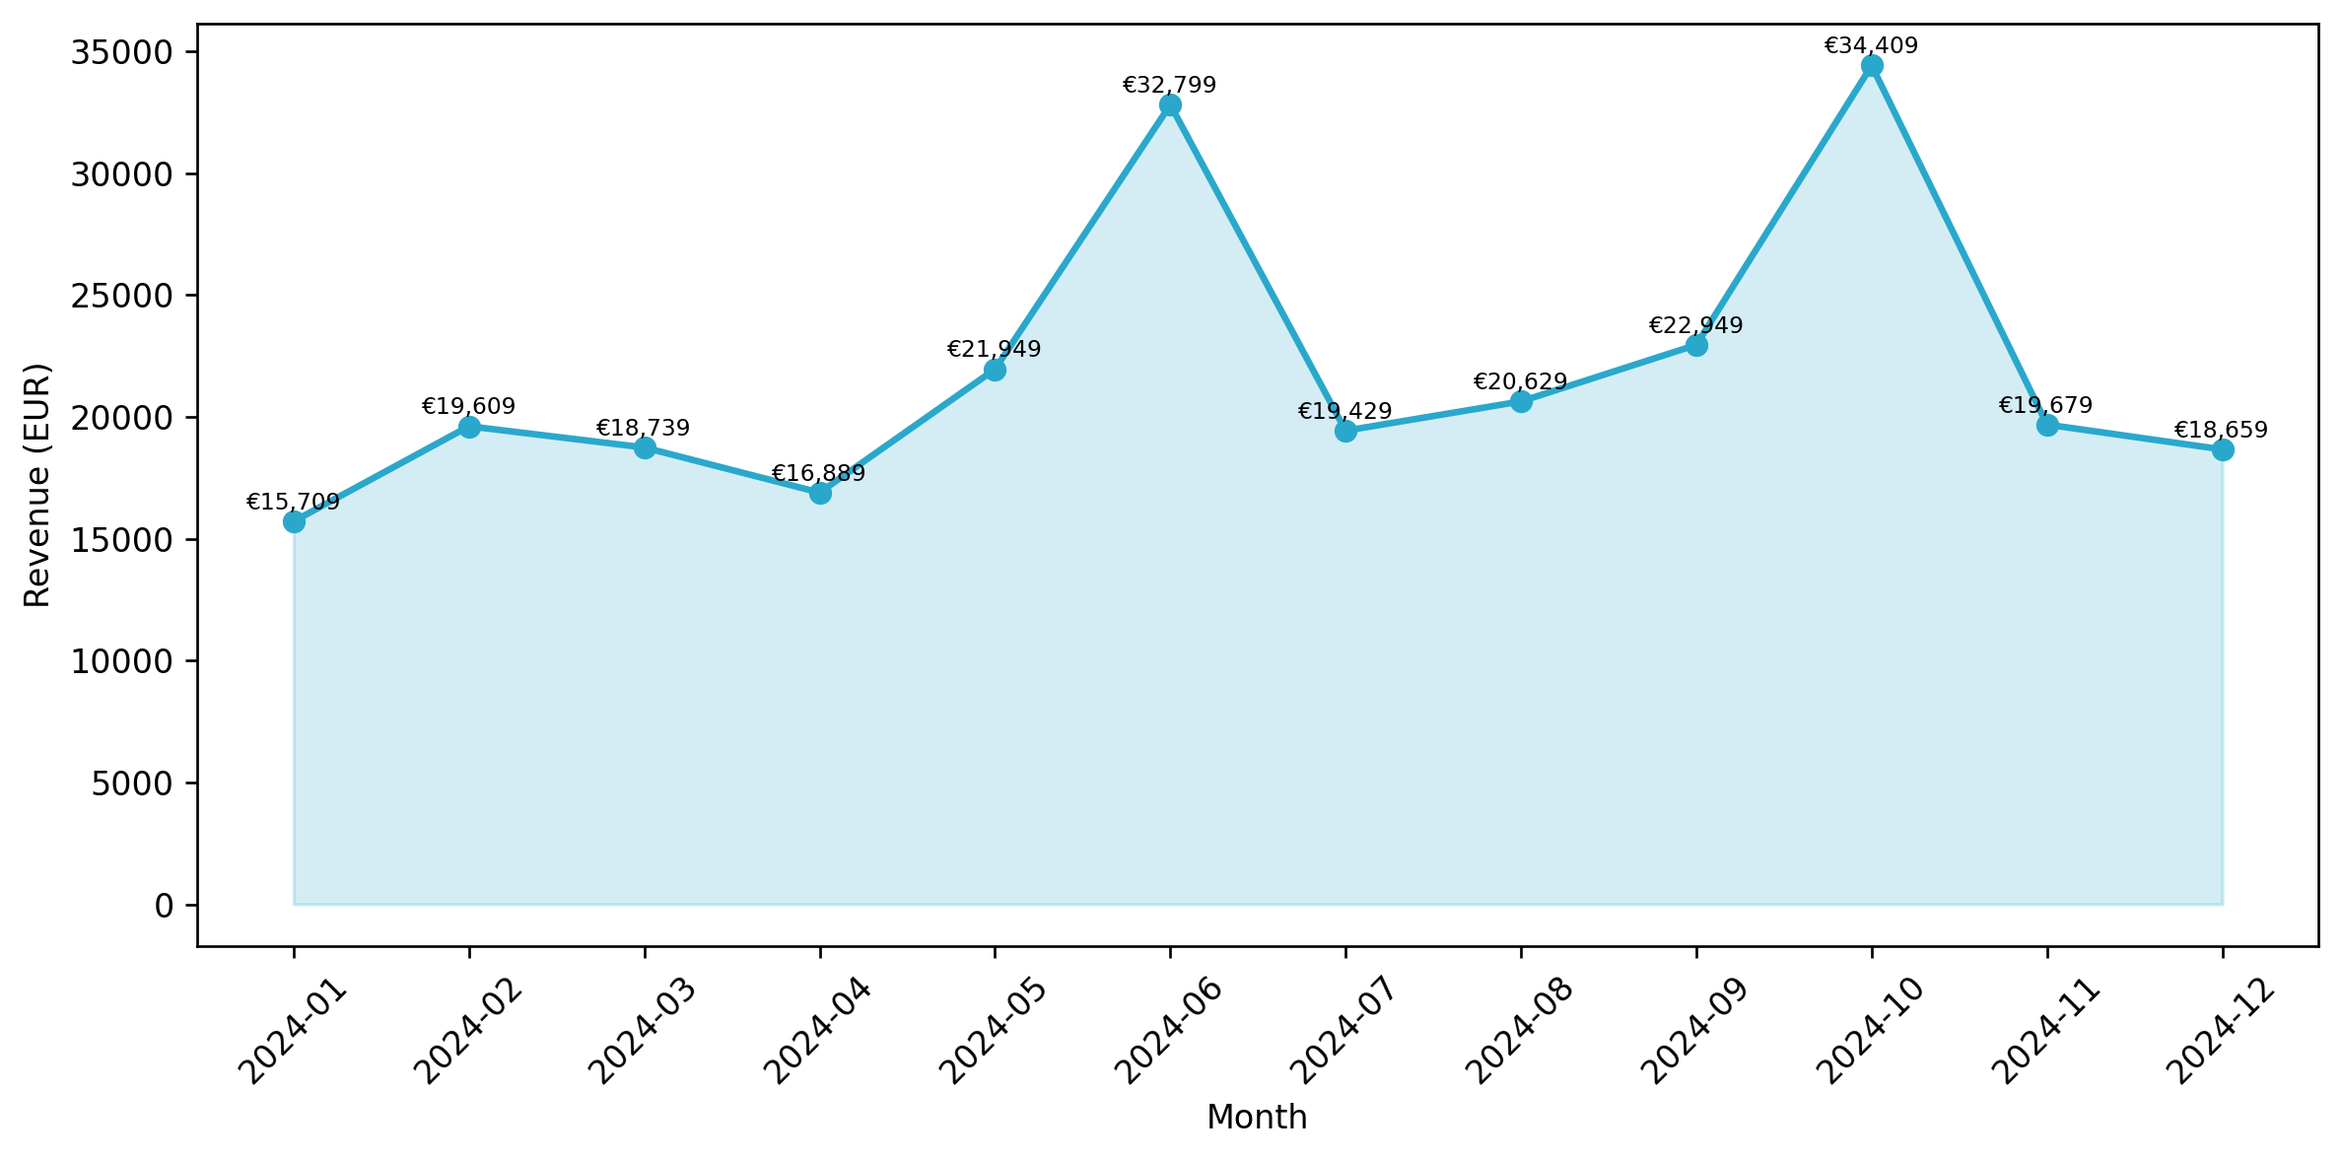
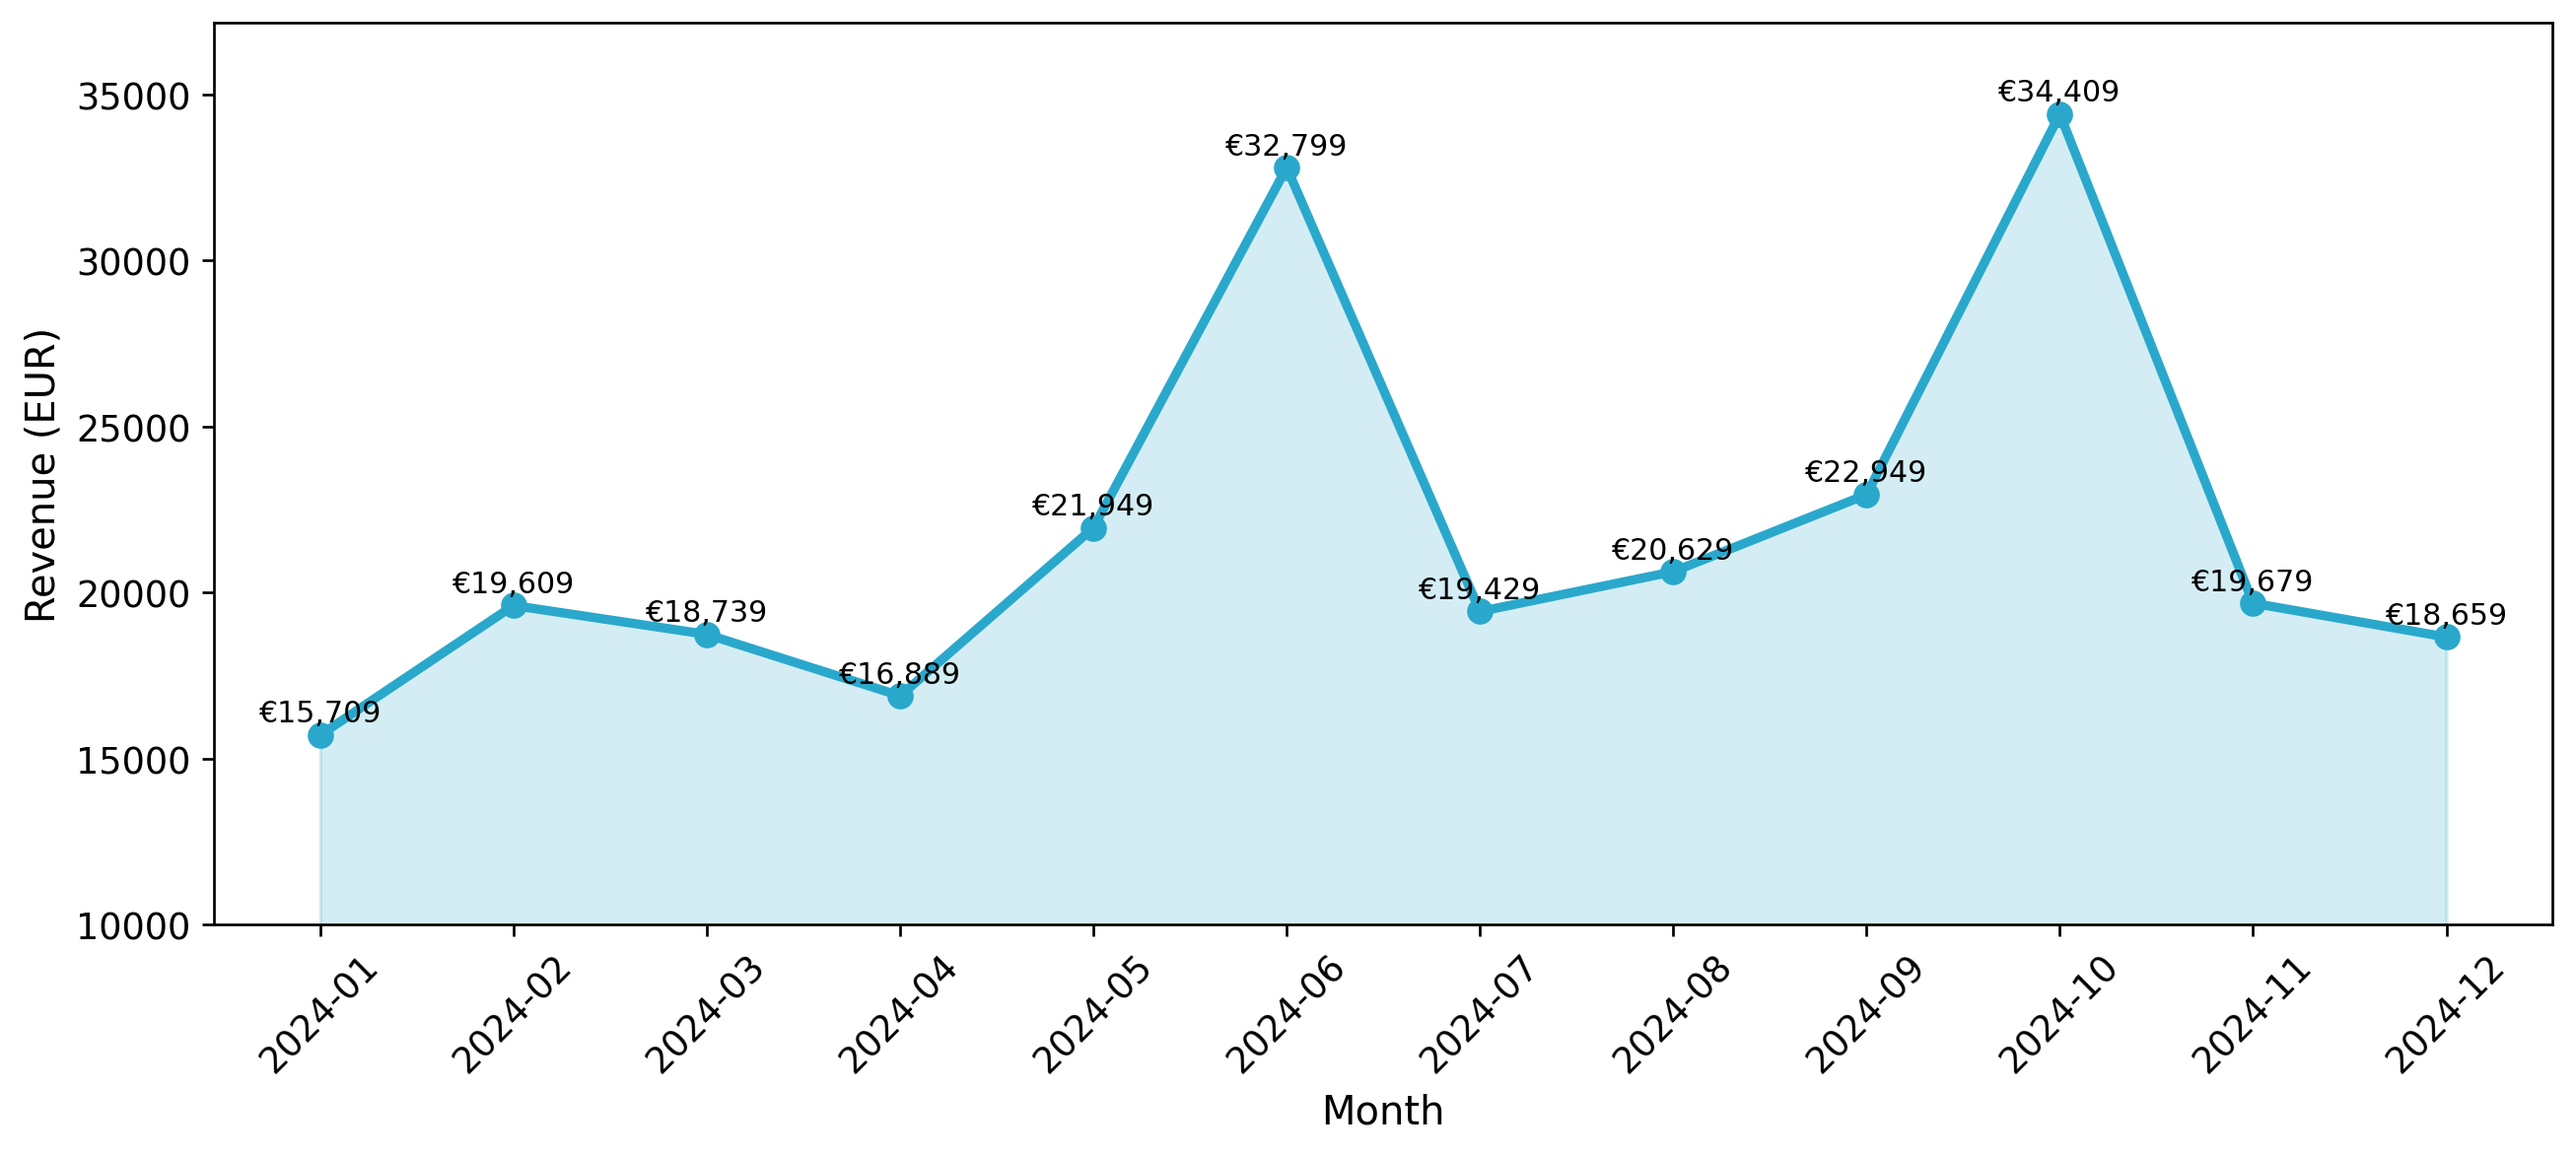
- obrazky uz v predchadzajucom push zmenene DPI 150->240 - sekcie 7 + 14 vylepseny dashboard layout - niektore grafy: priority polish layer

diff --git a/main.py b/main.py
@@ -61,17 +61,23 @@ print("✓ 01_duplicates.png")
 
 # === 2. REVENUE BY COUNTRY ===
 rev_country = df.groupby("country_name")["revenue"].sum().sort_values(ascending=True)
-fig, ax = plt.subplots(figsize=(9, 5))
+fig, ax = plt.subplots(figsize=(11, 5.5))
 bars = ax.barh(rev_country.index, rev_country.to_numpy(), color="#2aa8cc")
 # # ax.set_title("Revenue by Country", fontsize=16, fontweight="bold")
-ax.set_xlabel("Total Revenue (EUR)")
+ax.set_xlabel("Total Revenue (EUR)", fontsize=12)
+ax.set_xlim(0, rev_country.max() * 1.15)
+ax.tick_params(axis="both", labelsize=11)
+ax.grid(axis="x", alpha=0.18)
+ax.spines["top"].set_visible(False)
+ax.spines["right"].set_visible(False)
 for bar, val in zip(bars, rev_country.to_numpy()):
     ax.text(
         val + 500,
         bar.get_y() + bar.get_height() / 2,
         f"€{val:,.0f}",
         va="center",
-        fontsize=9,
+        fontsize=11,
+        fontweight="bold",
     )
 plt.tight_layout()
 plt.savefig("cleaned_data/02_revenue_by_country.png", dpi=240, bbox_inches="tight")
@@ -172,28 +178,28 @@ print("✓ 06_return_rate_by_product.png")
 
 # === 7. MONTHLY TREND ===
 monthly = df.groupby("month")["revenue"].sum()
-fig, ax = plt.subplots(figsize=(10, 5))
+fig, ax = plt.subplots(figsize=(11, 5))
 ax.plot(
     monthly.index.astype(str),
     monthly.to_numpy(),
     marker="o",
     color="#2aa8cc",
-    linewidth=2,
-    markersize=6,
+    linewidth=2.8,
+    markersize=7,
 )
 ax.fill_between(
     monthly.index.astype(str), monthly.to_numpy(), alpha=0.2, color="#2aa8cc"
 )
-# ax.set_title("Monthly Revenue Trend 2024", fontsize=16, fontweight="bold")
-ax.set_ylabel("Revenue (EUR)")
-ax.set_xlabel("Month")
+ax.set_ylabel("Revenue (EUR)", fontsize=12)
+ax.set_xlabel("Month", fontsize=12)
+ax.tick_params(axis="both", labelsize=11)
+ax.set_ylim(10000, monthly.max() * 1.08)
 plt.xticks(rotation=45)
 for i, val in enumerate(monthly.to_numpy()):
-    ax.text(i, val + 500, f"€{val:,.0f}", ha="center", fontsize=7)
+    ax.text(i, val + 400, f"€{val:,.0f}", ha="center", fontsize=9)
 plt.tight_layout()
 plt.savefig("cleaned_data/07_monthly_trend.png", dpi=240, bbox_inches="tight")
 plt.close()
-print("✓ 07_monthly_trend.png")
 
 # === 8. REVENUE BY MARKETPLACE ===
 rev_market = df.groupby("marketplace")["revenue"].sum().sort_values(ascending=False)
@@ -214,17 +220,23 @@ print("✓ 08_revenue_by_marketplace.png")
 
 # === 9. REVENUE BY CATEGORY ===
 rev_cat = df.groupby("category")["revenue"].sum().sort_values(ascending=True)
-fig, ax = plt.subplots(figsize=(9, 5))
+fig, ax = plt.subplots(figsize=(13, 6))
 bars = ax.barh(rev_cat.index, rev_cat.to_numpy(), color="#1b4332")
 # ax.set_title("Revenue by Category", fontsize=16, fontweight="bold")
-ax.set_xlabel("Total Revenue (EUR)")
+ax.set_xlabel("Total Revenue (EUR)", fontsize=13)
+ax.set_xlim(0, rev_cat.max() * 1.15)
+ax.tick_params(axis="both", labelsize=12)
+ax.grid(axis="x", alpha=0.18)
+ax.spines["top"].set_visible(False)
+ax.spines["right"].set_visible(False)
 for bar, val in zip(bars, rev_cat.to_numpy()):
     ax.text(
         val + 200,
         bar.get_y() + bar.get_height() / 2,
         f"€{val:,.0f}",
         va="center",
-        fontsize=9,
+        fontsize=13,
+        fontweight="bold",
     )
 plt.tight_layout()
 plt.savefig("cleaned_data/09_revenue_by_category.png", dpi=240, bbox_inches="tight")
@@ -233,17 +245,23 @@ print("✓ 09_revenue_by_category.png")
 
 # === 10. MARGIN BY CATEGORY ===
 margin_cat = df.groupby("category")["margin_pct"].mean().sort_values(ascending=True)
-fig, ax = plt.subplots(figsize=(9, 5))
+fig, ax = plt.subplots(figsize=(11, 5.5))
 bars = ax.barh(margin_cat.index, margin_cat.to_numpy(), color="#145d72")
 # ax.set_title("Average Margin by Category (%)", fontsize=16, fontweight="bold")
-ax.set_xlabel("Average Margin (%)")
+ax.set_xlabel("Average Margin (%)", fontsize=12)
+ax.set_xlim(0, margin_cat.max() * 1.15)
+ax.tick_params(axis="both", labelsize=11)
+ax.grid(axis="x", alpha=0.18)
+ax.spines["top"].set_visible(False)
+ax.spines["right"].set_visible(False)
 for bar, val in zip(bars, margin_cat.to_numpy()):
     ax.text(
         val + 0.2,
         bar.get_y() + bar.get_height() / 2,
         f"{val:.1f}%",
         va="center",
-        fontsize=9,
+        fontsize=11,
+        fontweight="bold",
     )
 plt.tight_layout()
 plt.savefig("cleaned_data/10_margin_by_category.png", dpi=240, bbox_inches="tight")
@@ -252,17 +270,23 @@ print("✓ 10_margin_by_category.png")
 
 # === 11. PROFIT BY COUNTRY ===
 profit_country = df.groupby("country_name")["profit"].sum().sort_values(ascending=True)
-fig, ax = plt.subplots(figsize=(9, 5))
+fig, ax = plt.subplots(figsize=(11, 5.5))
 bars = ax.barh(profit_country.index, profit_country.to_numpy(), color="#0d3b47")
 # ax.set_title("Profit by Country", fontsize=16, fontweight="bold")
-ax.set_xlabel("Total Profit (EUR)")
+ax.set_xlabel("Total Profit (EUR)", fontsize=12)
+ax.set_xlim(0, profit_country.max() * 1.15)
+ax.tick_params(axis="both", labelsize=11)
+ax.grid(axis="x", alpha=0.18)
+ax.spines["top"].set_visible(False)
+ax.spines["right"].set_visible(False)
 for bar, val in zip(bars, profit_country.to_numpy()):
     ax.text(
         val + 100,
         bar.get_y() + bar.get_height() / 2,
         f"€{val:,.0f}",
         va="center",
-        fontsize=9,
+        fontsize=11,
+        fontweight="bold",
     )
 plt.tight_layout()
 plt.savefig("cleaned_data/11_profit_by_country.png", dpi=240, bbox_inches="tight")
@@ -309,14 +333,14 @@ print("✓ 13_orders_by_country.png")
 
 # === 14. MONTHLY ORDERS TREND ===
 monthly_orders = df.groupby("month")["order_id"].count()
-fig, ax = plt.subplots(figsize=(10, 5))
+fig, ax = plt.subplots(figsize=(11, 5))
 ax.plot(
     monthly_orders.index.astype(str),
     monthly_orders.to_numpy(),
     marker="o",
     color="#e67e22",
-    linewidth=2,
-    markersize=6,
+    linewidth=2.8,
+    markersize=7,
 )
 ax.fill_between(
     monthly_orders.index.astype(str),
@@ -324,16 +348,16 @@ ax.fill_between(
     alpha=0.2,
     color="#e67e22",
 )
-# ax.set_title("Monthly Orders Trend 2024", fontsize=16, fontweight="bold")
-ax.set_ylabel("Number of Orders")
-ax.set_xlabel("Month")
+ax.set_ylabel("Number of Orders", fontsize=12)
+ax.set_xlabel("Month", fontsize=12)
+ax.tick_params(axis="both", labelsize=11)
+ax.set_ylim(40, monthly_orders.max() * 1.08)
 plt.xticks(rotation=45)
 for i, val in enumerate(monthly_orders.to_numpy()):
-    ax.text(i, val + 1, str(val), ha="center", fontsize=8)
+    ax.text(i, val + 1, str(val), ha="center", fontsize=9)
 plt.tight_layout()
 plt.savefig("cleaned_data/14_monthly_orders_trend.png", dpi=240, bbox_inches="tight")
 plt.close()
-print("✓ 14_monthly_orders_trend.png")
 
 # === 15. UNITS SOLD BY PRODUCT ===
 units_product = (
